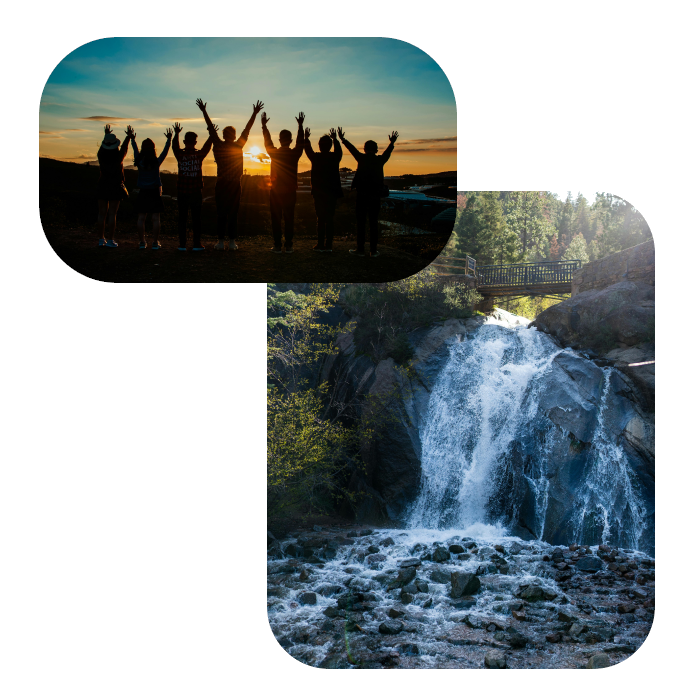
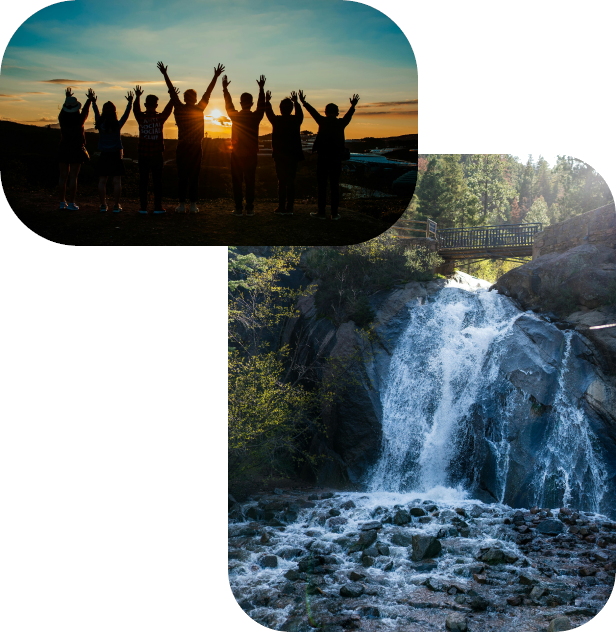
commit

diff --git a/src/app/page.tsx b/src/app/page.tsx
@@ -2,46 +2,48 @@ import Image from "next/image";
 import fix from "/public/fix.png";
 import phone from "/public/phone.png";
 import QR from "/public/QR.png";
+import spain from "/public/earth.png";
 
 export default function Home() {
   return (
-    <main className="bg-[url('/trees.png')] bg-cover bg-center  ">
-      <div className="flex justify-around pt-10 ">
-        <h1 className="font-syncopate font-bold text-4xl">
-          TREASURE HUNTS
-        </h1>
-        <div>
-          <button className="bg-transparent border-2 border-black text-black rounded-2xl mr-5 px-3 py-2 hover:bg-black hover:text-white transition duration-300">
-            Log In
-          </button>
-          <button className="bg-transparent border-2 border-black text-black rounded-2xl px-3 py-2 hover:bg-black hover:text-white transition duration-300">
-            Sign Out
-          </button>
-        </div>
-      </div>
-      <div className="flex justify-center h-auto mt-16 mb-10">
-        <div className="w-1/4 ml-24 justify-center max-w-lg">
-          <h1 className="text-7xl text-white">
-            Your Jorney to Hidden Treasures starts Here!
+    <main>
+      <div className="bg-[url('/trees.png')] bg-cover bg-top pb-24 bg-blend-overlay">
+        <div className="flex justify-around pt-10 ">
+          <h1 className="font-syncopate font-bold text-4xl ">
+            TREASURE HUNTS
           </h1>
-          <h2 className="text-white text-xl mt-10 align-center">
-            Uncover Adventure, One Clue at a Time! Solve Clues, Unlock Secrets, and Discover Hidden Treasures!  Create treasure hunts and share your experiences!
-          </h2>
-          <button className="text-3xl mt-10 bg-green-600 text-white py-2 px-4 rounded-lg hover:bg-green-600 focus:outline-none focus:ring-2 focus:ring-green-400 focus:ring-opacity-50">
-            Launch Application
-          </button>
-          <h2 className="mt-2 text-white">
-            If you haven't logged in yet, this button will launch the application with a guest account.
-          </h2>
+          <div>
+            <button className="bg-transparent border-2 border-black text-black rounded-2xl mr-5 px-3 py-2 hover:bg-black hover:text-white transition duration-300">
+              Log In
+            </button>
+            <button className="bg-transparent border-2 border-black text-black rounded-2xl px-3 py-2 hover:bg-black hover:text-white transition duration-300">
+              Sign Out
+            </button>
+          </div>
         </div>
-        <Image
-          className="transform scale-90"
-          src={fix} // Path to your image
-          alt="rising hands and fall"
-          height={650}
-        />
+        <div className="flex justify-center h-auto mt-28">
+          <div className="w-full xl:w-1/4 justify-center max-w-lg">
+            <h1 className="text-7xl text-white">
+              Your Journey to Hidden Treasures Starts Here!
+            </h1>
+            <h2 className="text-white text-3xl mt-10 align-center">
+              Uncover Adventure, One Clue at a Time! Solve Clues, Unlock Secrets, and Discover Hidden Treasures! Create treasure hunts and share your experiences!
+            </h2>
+            <button className="text-3xl mt-24 bg-green-600 text-white py-2 px-4 rounded-lg hover:bg-green-600 focus:outline-none focus:ring-2 focus:ring-green-400 focus:ring-opacity-50">
+              Launch Application
+            </button>
+            <h2 className="mt-6 w-3/4 text-md text-white">
+              If you haven't logged in yet, this button will launch the application with a guest account.
+            </h2>
+          </div>
+          <Image
+            className="hidden xl:block transform scale-90"
+            src={fix} // Replace 'fix' with the actual image path or import
+            alt="rising hands and fall"
+          />
+        </div>
       </div>
-      <div className=" bg-[#EEFFE0] flex text-center items-center justify-center mb-60 pb-20 pt-20">
+      <div className=" bg-gradient-to-b from-[#EEFFE0] via-[#EEFFE0] via-90% to-black flex text-center items-center justify-center pb-60 pt-40">
         <Image
           className="transform scale-90 mr-12"
           src={phone} // Path to your image
@@ -60,6 +62,16 @@ export default function Home() {
             src={QR} // Path to your image
             alt="rising hands and fall"
           />
+        </div>
+      </div>
+      <div className="bg-[url('/earth.png')] bg-cover bg-top flex justify-center pt-40 pb-40 mb-20">
+        <div className="justify-center max-w-4xl">
+          <h1 className="text-8xl mb-10 text-white text-center">
+            The globe is your playground. Let the hunt begin!
+          </h1>
+          <h2 className="text-white text-3xl text-center align-center">
+            Easily use our integrated Google Maps service to drag and drop the checkpoints that comprise your hunts
+          </h2>
         </div>
       </div>
     </main>
